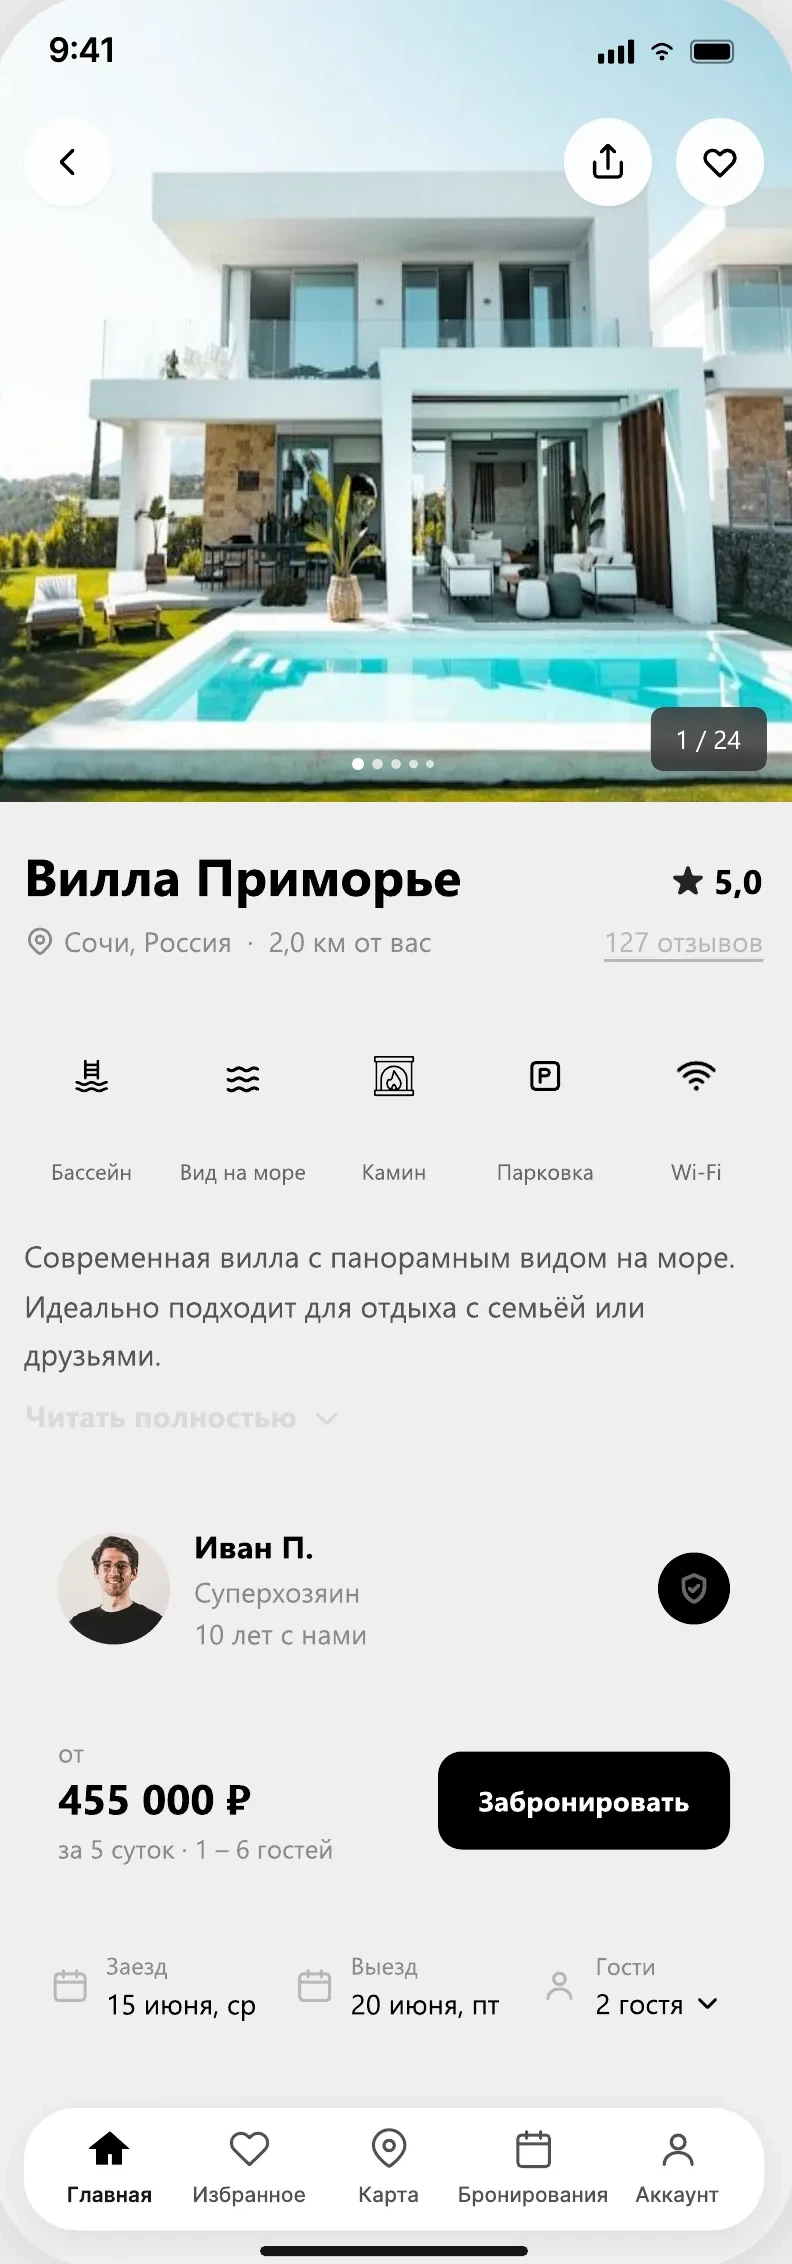
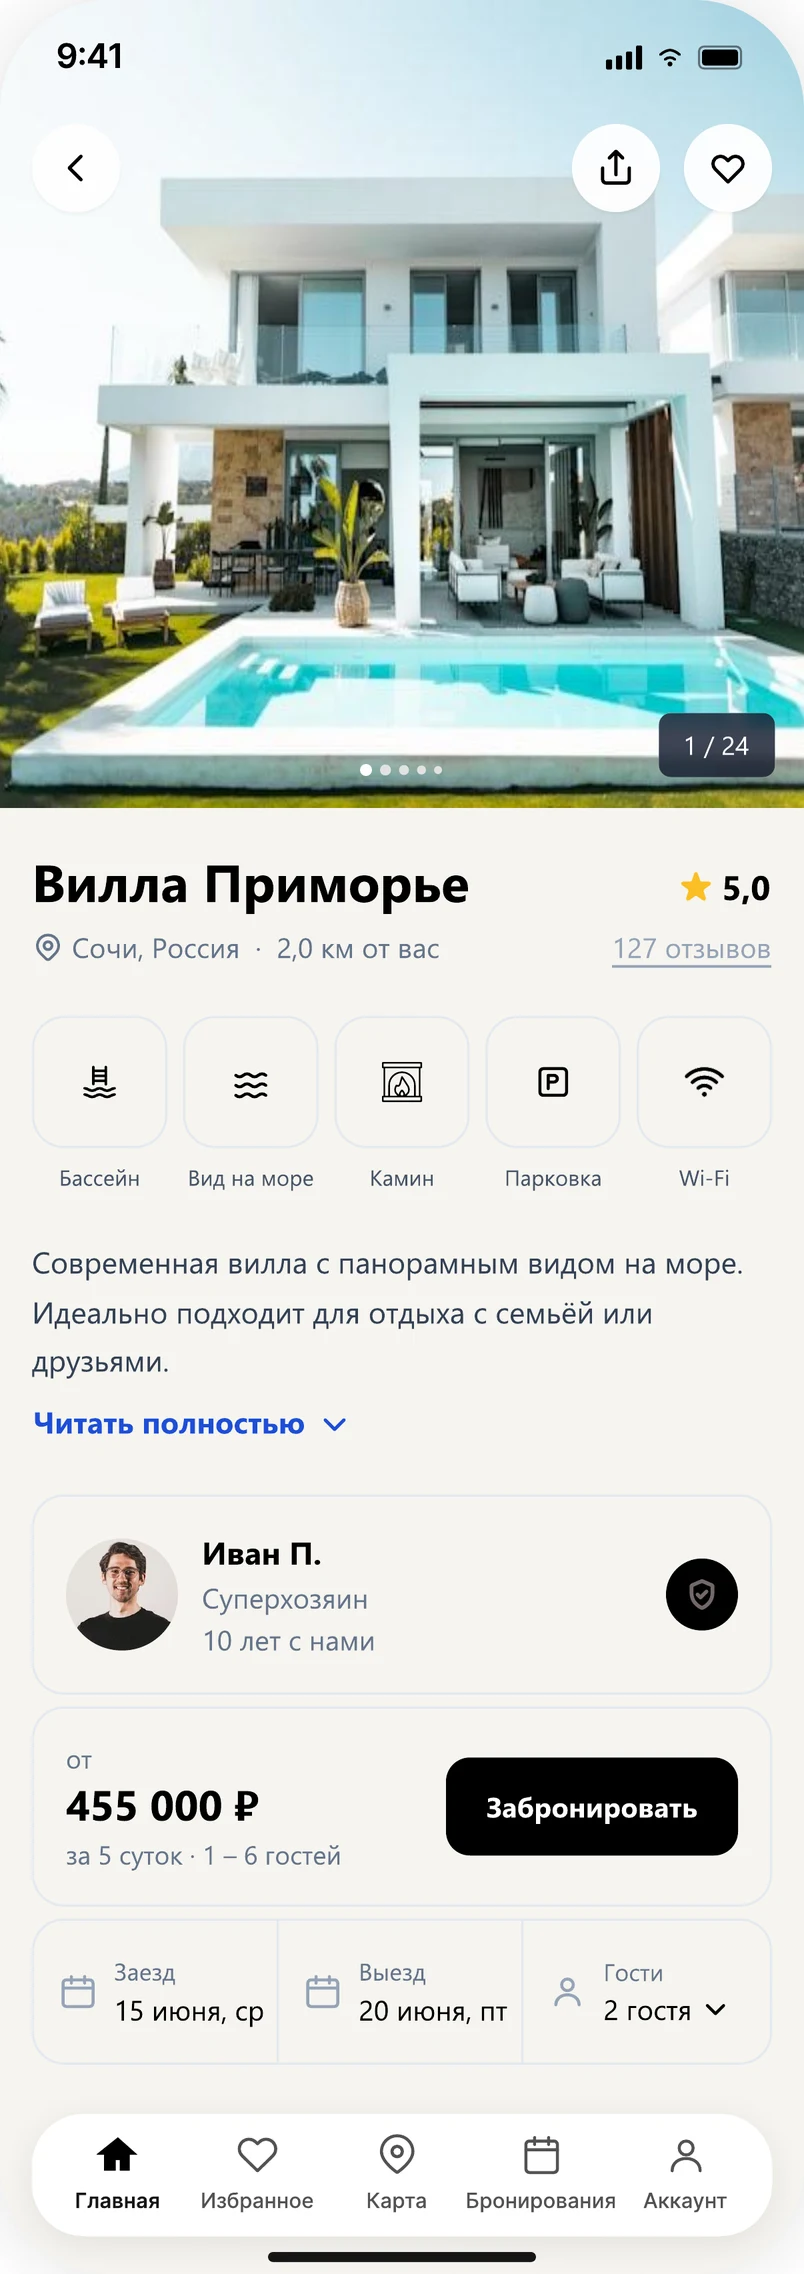
Новые экраны, рамка телефона, фиксированное нижнее меню, без боковых отступов
Claude-Session: https://claude.ai/code/session_01F3YvQhaftnGhsj9cgHaCEe

diff --git a/index.html b/index.html
@@ -208,16 +208,23 @@ h2.title { font-family: var(--font-display); font-weight: 700; text-transform: u
 
 .zoom-btn { display: block; width: 100%; padding: 0; border-radius: var(--r); overflow: hidden; background: var(--plate); cursor: zoom-in; }
 .zoom-btn img { width: 100%; height: 100%; }
-.phone .zoom-btn { aspect-ratio: 5 / 6; }
-.phone .zoom-btn img { object-fit: contain; padding: 16px 0; }
-.plate { position: relative; aspect-ratio: 5 / 6; border-radius: var(--r); background: var(--plate); border: 1px solid var(--glass-border); box-shadow: var(--shadow); display: grid; place-items: center; overflow: hidden; }
-.shell { position: relative; height: calc(100% - 32px); aspect-ratio: 806 / 1728; border-radius: 36px; background: #EEEEEE; overflow: hidden; box-shadow: 0 0 0 1px rgba(11, 12, 12, 0.08), 0 14px 34px rgba(0, 0, 0, 0.16); }
-.dev { height: 100%; overflow-y: auto; overflow-x: hidden; background: #EEEEEE; scrollbar-width: none; overscroll-behavior: contain; }
+/* Экраны приложения: телефон без карточки, меню внизу закреплено */
+.rail.phones { --gap: 16px; }
+.rail.phones > * { flex-basis: calc((100% - 3 * var(--gap)) / 4); padding: 10px 10px 0; }
+@media (max-width: 1100px) { .rail.phones > * { flex-basis: calc((100% - 2 * var(--gap)) / 3); } }
+@media (max-width: 760px) { .rail.phones > * { flex-basis: calc((100% - var(--gap)) / 2); } }
+@media (max-width: 520px) { .rail.phones > * { flex-basis: 66%; } }
+.ph .shell { position: relative; aspect-ratio: 804 / 1748; border-radius: 34px; background: #F6F4EF; overflow: hidden; box-shadow: 0 0 0 7px #151716, 0 18px 40px rgba(0, 0, 0, 0.25); }
+.dev { height: 100%; overflow: hidden; background: #F6F4EF; }
+.dev.long { overflow-y: auto; overflow-x: hidden; scrollbar-width: none; overscroll-behavior: contain; }
 .dev::-webkit-scrollbar { display: none; }
 .dev img { width: 100%; height: auto; display: block; }
-.zb { position: absolute; top: 12px; right: 12px; z-index: 3; width: 38px; height: 38px; padding: 0; display: grid; place-items: center; border-radius: 50%; cursor: zoom-in; background: var(--ctrl-hover); border: 1px solid var(--glass-border); color: var(--ink); opacity: 0; transition: opacity 0.2s ease; -webkit-backdrop-filter: blur(12px); backdrop-filter: blur(12px); }
-.plate:hover .zb, .zb:focus-visible { opacity: 1; }
+.ph .nav-fix { position: absolute; left: 0; bottom: 0; width: 100%; height: auto; pointer-events: none; z-index: 2; filter: drop-shadow(0 6px 14px rgba(60, 40, 10, 0.12)); }
+.isl { position: absolute; top: 1.3%; left: 34.3%; width: 31.4%; height: 4.3%; border-radius: 999px; background: #000; pointer-events: none; z-index: 3; }
+.zb { position: absolute; top: 9%; right: 10px; z-index: 4; width: 38px; height: 38px; padding: 0; display: grid; place-items: center; border-radius: 50%; cursor: zoom-in; background: var(--ctrl-hover); border: 1px solid var(--glass-border); color: var(--ink); opacity: 0; transition: opacity 0.2s ease; -webkit-backdrop-filter: blur(12px); backdrop-filter: blur(12px); }
+.ph .shell:hover .zb, .zb:focus-visible { opacity: 1; }
 @media (hover: none) { .zb { opacity: 0.9; } }
+.ph figcaption { text-align: center; margin-top: 18px; }
 .tile .zoom-btn { aspect-ratio: 5 / 4; }
 .tile .zoom-btn img { object-fit: cover; }
 .zoom-btn:hover { filter: brightness(1.02); }
@@ -272,6 +279,7 @@ dialog::backdrop { background: rgba(5, 8, 7, 0.55); -webkit-backdrop-filter: blu
 .zbar span { font-size: 14px; min-width: 0; }
 .zbar button { border: 1px solid var(--line); background: transparent; border-radius: 999px; padding: 6px 18px; cursor: pointer; flex: none; }
 .zbar button:hover { background: var(--accent); color: var(--on-accent); border-color: var(--accent); }
+dialog.ph { width: min(440px, calc(100% - 16px)); }
 dialog.win { width: min(760px, calc(100% - 16px)); }
 dialog.tile { width: min(680px, calc(100% - 16px)); }
 #zimg { display: block; width: auto; max-width: 100%; max-height: calc(100dvh - 110px); height: auto; margin-inline: auto; background: var(--plate); }
@@ -363,13 +371,17 @@ body { margin: 0; }
           <li><b>Аккаунт</b><span>профиль, брони, избранное, отзывы, настройки</span></li>
         </ul>
       </div>
-      <div class="rail" aria-label="Экраны приложения">
-        <figure class="phone"><div class="plate"><div class="shell"><div class="dev long" tabindex="0" aria-label="Экран прокручивается"><img src="img/c1-02.webp" width="792" height="2588" loading="lazy" alt="Экран приложения: главная"></div></div><button type="button" class="zoom-btn-bar zb" aria-label="Открыть крупнее" data-long="1" data-src="img/c1-02.webp" data-cap="Главная"><svg width="16" height="16" viewBox="0 0 16 16" aria-hidden="true"><path d="M9.5 2H14v4.5M6.5 14H2V9.5M14 2 9 7M2 14l5-5" fill="none" stroke="currentColor" stroke-width="1.6" stroke-linecap="round" stroke-linejoin="round"/></svg></button></div><figcaption>Главная · прокручивается</figcaption></figure>
-        <figure class="phone"><div class="plate"><div class="shell"><div class="dev"><img src="img/c1-03.webp" width="806" height="1728" loading="lazy" alt="Экран приложения: фильтры"></div></div><button type="button" class="zoom-btn-bar zb" aria-label="Открыть крупнее" data-src="img/c1-03.webp" data-cap="Фильтры"><svg width="16" height="16" viewBox="0 0 16 16" aria-hidden="true"><path d="M9.5 2H14v4.5M6.5 14H2V9.5M14 2 9 7M2 14l5-5" fill="none" stroke="currentColor" stroke-width="1.6" stroke-linecap="round" stroke-linejoin="round"/></svg></button></div><figcaption>Фильтры</figcaption></figure>
-        <figure class="phone"><div class="plate"><div class="shell"><div class="dev"><img src="img/c1-04.webp" width="806" height="1728" loading="lazy" alt="Экран приложения: карта со списком вариантов"></div></div><button type="button" class="zoom-btn-bar zb" aria-label="Открыть крупнее" data-src="img/c1-04.webp" data-cap="Карта и список"><svg width="16" height="16" viewBox="0 0 16 16" aria-hidden="true"><path d="M9.5 2H14v4.5M6.5 14H2V9.5M14 2 9 7M2 14l5-5" fill="none" stroke="currentColor" stroke-width="1.6" stroke-linecap="round" stroke-linejoin="round"/></svg></button></div><figcaption>Карта и список</figcaption></figure>
-        <figure class="phone"><div class="plate"><div class="shell"><div class="dev long" tabindex="0" aria-label="Экран прокручивается"><img src="img/c1-06.webp" width="792" height="2264" loading="lazy" alt="Экран приложения: карточка объекта"></div></div><button type="button" class="zoom-btn-bar zb" aria-label="Открыть крупнее" data-long="1" data-src="img/c1-06.webp" data-cap="Карточка объекта"><svg width="16" height="16" viewBox="0 0 16 16" aria-hidden="true"><path d="M9.5 2H14v4.5M6.5 14H2V9.5M14 2 9 7M2 14l5-5" fill="none" stroke="currentColor" stroke-width="1.6" stroke-linecap="round" stroke-linejoin="round"/></svg></button></div><figcaption>Карточка объекта · прокручивается</figcaption></figure>
-        <figure class="phone"><div class="plate"><div class="shell"><div class="dev long" tabindex="0" aria-label="Экран прокручивается"><img src="img/c1-08.webp" width="792" height="2512" loading="lazy" alt="Экран приложения: выбор дат и оплата"></div></div><button type="button" class="zoom-btn-bar zb" aria-label="Открыть крупнее" data-long="1" data-src="img/c1-08.webp" data-cap="Даты и оплата"><svg width="16" height="16" viewBox="0 0 16 16" aria-hidden="true"><path d="M9.5 2H14v4.5M6.5 14H2V9.5M14 2 9 7M2 14l5-5" fill="none" stroke="currentColor" stroke-width="1.6" stroke-linecap="round" stroke-linejoin="round"/></svg></button></div><figcaption>Даты и оплата · прокручивается</figcaption></figure>
-        <figure class="phone"><div class="plate"><div class="shell"><div class="dev long" tabindex="0" aria-label="Экран прокручивается"><img src="img/c1-09.webp" width="792" height="2886" loading="lazy" alt="Экран приложения: аккаунт"></div></div><button type="button" class="zoom-btn-bar zb" aria-label="Открыть крупнее" data-long="1" data-src="img/c1-09.webp" data-cap="Аккаунт"><svg width="16" height="16" viewBox="0 0 16 16" aria-hidden="true"><path d="M9.5 2H14v4.5M6.5 14H2V9.5M14 2 9 7M2 14l5-5" fill="none" stroke="currentColor" stroke-width="1.6" stroke-linecap="round" stroke-linejoin="round"/></svg></button></div><figcaption>Аккаунт · прокручивается</figcaption></figure>
+      <div class="rail phones" aria-label="Экраны приложения">
+        <figure class="ph"><div class="shell"><div class="dev long" tabindex="0" aria-label="Экран прокручивается"><img src="img/c1-01.webp" width="804" height="2598" loading="lazy" alt="Экран приложения: главная"></div><img class="nav-fix" src="img/c1-nav-01.webp" alt="" aria-hidden="true"><i class="isl"></i><button type="button" class="zoom-btn-bar zb" aria-label="Открыть крупнее" data-long="1" data-src="img/c1-01.webp" data-cap="Главная"><svg width="16" height="16" viewBox="0 0 16 16" aria-hidden="true"><path d="M9.5 2H14v4.5M6.5 14H2V9.5M14 2 9 7M2 14l5-5" fill="none" stroke="currentColor" stroke-width="1.6" stroke-linecap="round" stroke-linejoin="round"/></svg></button></div><figcaption>Главная · прокручивается</figcaption></figure>
+        <figure class="ph"><div class="shell"><div class="dev"><img src="img/c1-02.webp" width="804" height="1748" loading="lazy" alt="Экран приложения: фильтры"></div><i class="isl"></i><button type="button" class="zoom-btn-bar zb" aria-label="Открыть крупнее" data-src="img/c1-02.webp" data-cap="Фильтры"><svg width="16" height="16" viewBox="0 0 16 16" aria-hidden="true"><path d="M9.5 2H14v4.5M6.5 14H2V9.5M14 2 9 7M2 14l5-5" fill="none" stroke="currentColor" stroke-width="1.6" stroke-linecap="round" stroke-linejoin="round"/></svg></button></div><figcaption>Фильтры</figcaption></figure>
+        <figure class="ph"><div class="shell"><div class="dev long" tabindex="0" aria-label="Экран прокручивается"><img src="img/c1-03.webp" width="804" height="2028" loading="lazy" alt="Экран приложения: фильтры целиком"></div><img class="nav-fix" src="img/c1-nav-03.webp" alt="" aria-hidden="true"><i class="isl"></i><button type="button" class="zoom-btn-bar zb" aria-label="Открыть крупнее" data-long="1" data-src="img/c1-03.webp" data-cap="Фильтры, вся страница"><svg width="16" height="16" viewBox="0 0 16 16" aria-hidden="true"><path d="M9.5 2H14v4.5M6.5 14H2V9.5M14 2 9 7M2 14l5-5" fill="none" stroke="currentColor" stroke-width="1.6" stroke-linecap="round" stroke-linejoin="round"/></svg></button></div><figcaption>Фильтры, вся страница · прокручивается</figcaption></figure>
+        <figure class="ph"><div class="shell"><div class="dev"><img src="img/c1-04.webp" width="804" height="1748" loading="lazy" alt="Экран приложения: карта со списком вариантов"></div><i class="isl"></i><button type="button" class="zoom-btn-bar zb" aria-label="Открыть крупнее" data-src="img/c1-04.webp" data-cap="Карта и список"><svg width="16" height="16" viewBox="0 0 16 16" aria-hidden="true"><path d="M9.5 2H14v4.5M6.5 14H2V9.5M14 2 9 7M2 14l5-5" fill="none" stroke="currentColor" stroke-width="1.6" stroke-linecap="round" stroke-linejoin="round"/></svg></button></div><figcaption>Карта и список</figcaption></figure>
+        <figure class="ph"><div class="shell"><div class="dev"><img src="img/c1-05.webp" width="804" height="1748" loading="lazy" alt="Экран приложения: карточка объекта"></div><i class="isl"></i><button type="button" class="zoom-btn-bar zb" aria-label="Открыть крупнее" data-src="img/c1-05.webp" data-cap="Карточка объекта"><svg width="16" height="16" viewBox="0 0 16 16" aria-hidden="true"><path d="M9.5 2H14v4.5M6.5 14H2V9.5M14 2 9 7M2 14l5-5" fill="none" stroke="currentColor" stroke-width="1.6" stroke-linecap="round" stroke-linejoin="round"/></svg></button></div><figcaption>Карточка объекта</figcaption></figure>
+        <figure class="ph"><div class="shell"><div class="dev long" tabindex="0" aria-label="Экран прокручивается"><img src="img/c1-06.webp" width="804" height="2274" loading="lazy" alt="Экран приложения: карточка объекта целиком"></div><img class="nav-fix" src="img/c1-nav-06.webp" alt="" aria-hidden="true"><i class="isl"></i><button type="button" class="zoom-btn-bar zb" aria-label="Открыть крупнее" data-long="1" data-src="img/c1-06.webp" data-cap="Карточка объекта, вся страница"><svg width="16" height="16" viewBox="0 0 16 16" aria-hidden="true"><path d="M9.5 2H14v4.5M6.5 14H2V9.5M14 2 9 7M2 14l5-5" fill="none" stroke="currentColor" stroke-width="1.6" stroke-linecap="round" stroke-linejoin="round"/></svg></button></div><figcaption>Карточка объекта, вся страница · прокручивается</figcaption></figure>
+        <figure class="ph"><div class="shell"><div class="dev"><img src="img/c1-07.webp" width="804" height="1748" loading="lazy" alt="Экран приложения: выбор дат"></div><i class="isl"></i><button type="button" class="zoom-btn-bar zb" aria-label="Открыть крупнее" data-src="img/c1-07.webp" data-cap="Выбор дат"><svg width="16" height="16" viewBox="0 0 16 16" aria-hidden="true"><path d="M9.5 2H14v4.5M6.5 14H2V9.5M14 2 9 7M2 14l5-5" fill="none" stroke="currentColor" stroke-width="1.6" stroke-linecap="round" stroke-linejoin="round"/></svg></button></div><figcaption>Выбор дат</figcaption></figure>
+        <figure class="ph"><div class="shell"><div class="dev long" tabindex="0" aria-label="Экран прокручивается"><img src="img/c1-08.webp" width="804" height="2522" loading="lazy" alt="Экран приложения: даты, детали и оплата"></div><img class="nav-fix" src="img/c1-nav-08.webp" alt="" aria-hidden="true"><i class="isl"></i><button type="button" class="zoom-btn-bar zb" aria-label="Открыть крупнее" data-long="1" data-src="img/c1-08.webp" data-cap="Даты и оплата"><svg width="16" height="16" viewBox="0 0 16 16" aria-hidden="true"><path d="M9.5 2H14v4.5M6.5 14H2V9.5M14 2 9 7M2 14l5-5" fill="none" stroke="currentColor" stroke-width="1.6" stroke-linecap="round" stroke-linejoin="round"/></svg></button></div><figcaption>Даты и оплата · прокручивается</figcaption></figure>
+        <figure class="ph"><div class="shell"><div class="dev"><img src="img/c1-09.webp" width="804" height="1754" loading="lazy" alt="Экран приложения: аккаунт"></div><i class="isl"></i><button type="button" class="zoom-btn-bar zb" aria-label="Открыть крупнее" data-src="img/c1-09.webp" data-cap="Аккаунт"><svg width="16" height="16" viewBox="0 0 16 16" aria-hidden="true"><path d="M9.5 2H14v4.5M6.5 14H2V9.5M14 2 9 7M2 14l5-5" fill="none" stroke="currentColor" stroke-width="1.6" stroke-linecap="round" stroke-linejoin="round"/></svg></button></div><figcaption>Аккаунт</figcaption></figure>
+        <figure class="ph"><div class="shell"><div class="dev long" tabindex="0" aria-label="Экран прокручивается"><img src="img/c1-10.webp" width="804" height="2896" loading="lazy" alt="Экран приложения: аккаунт целиком"></div><img class="nav-fix" src="img/c1-nav-10.webp" alt="" aria-hidden="true"><i class="isl"></i><button type="button" class="zoom-btn-bar zb" aria-label="Открыть крупнее" data-long="1" data-src="img/c1-10.webp" data-cap="Аккаунт, вся страница"><svg width="16" height="16" viewBox="0 0 16 16" aria-hidden="true"><path d="M9.5 2H14v4.5M6.5 14H2V9.5M14 2 9 7M2 14l5-5" fill="none" stroke="currentColor" stroke-width="1.6" stroke-linecap="round" stroke-linejoin="round"/></svg></button></div><figcaption>Аккаунт, вся страница · прокручивается</figcaption></figure>
       </div>
     </div>
   </section>
